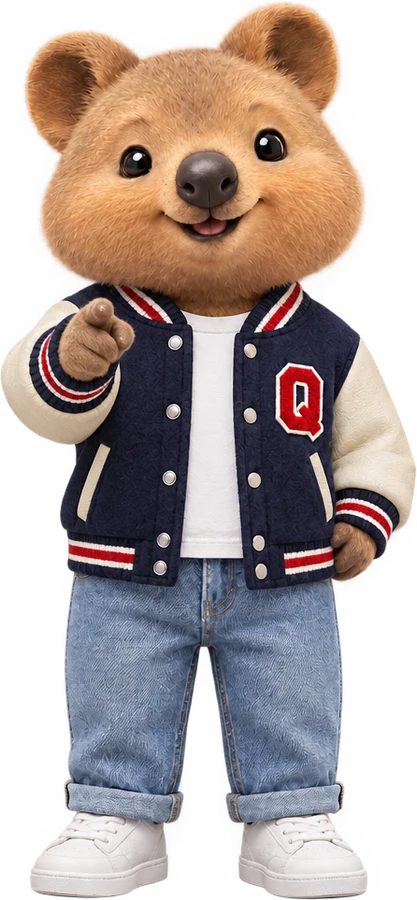
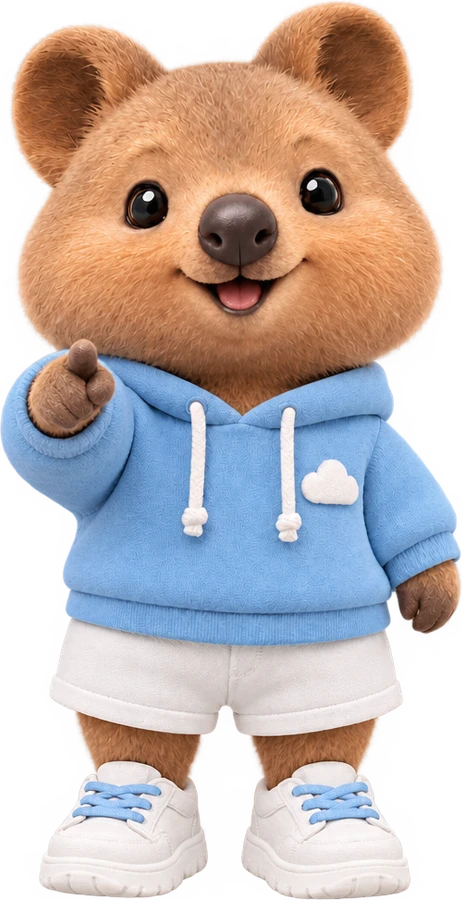
E78 캐릭터·색 교체: 치비 비율 하늘색 후디, 포인트 코발트, 알림 스택 훅
- 힉스필드로 몸을 짧게 줄인 치비 비율 키·포즈 4종 새로 생성(하늘색 후디, 흰 반바지)
- 팔레트 #2563EB/#0EA5E9, 모션 8종 포인트 색 코발트로 재추출, 큰 숫자 모션은 밝은 바탕
- 1장 훅은 폰 알림 대신 알림 스택(notify-stack)으로, 썸네일 재생성

diff --git a/assets/motions/e78-notify-stack.html b/assets/motions/e78-notify-stack.html
@@ -3,43 +3,49 @@
 <head>
 <meta charset="utf-8">
 <meta name="viewport" content="width=device-width, initial-scale=1">
-<title>폰 알림</title>
-<style>body{margin:0;min-height:100vh;display:grid;place-items:center;background:#111a30}</style>
+<title>알림 스택</title>
+<style>body{margin:0;min-height:100vh;display:grid;place-items:center;background:#f5f5f7}</style>
 </head>
 <body>
-<!-- 쿼카 모션랩 · 폰 알림 (Phone Notice) -->
-<div id="qm-phone-notice" style="width:100%;max-width:calc(100vh * 1)"></div>
+<!-- 쿼카 모션랩 · 알림 스택 (Notification Stack) -->
+<div id="qm-notify-stack" style="width:100%;max-width:calc(100vh * 1)"></div>
 <script>
 (function () {
   // ① 설정: 여기만 고치면 됩니다
   const CONFIG = {
     speed: 1,          // 속도 (1 = 기본, 2 = 두 배)
-    bg: '#111a30',     // 배경색 ('transparent'로 바꾸면 투명)
-    colors: ['#f4f6fa', '#d9e0ee', '#b4c0d9', '#8494b8', '#b0556a', '#1f3460', '#1f3460', '#0e1424'],   // 색 8개: 밝은 색 → 진한 색 ([5] 포인트 색, [7] 글자색)
+    bg: '#f5f5f7',     // 배경색 ('transparent'로 바꾸면 투명)
+    colors: ['#ffffff', '#e8ecf3', '#cfd7e6', '#9aa8c4', '#5c7099', '#2563EB', '#6e1a2f', '#15171c'],   // 색 8개: 밝은 색 → 진한 색 ([5] 포인트 색, [7] 글자색)
     ratio: '1 / 1'     // 화면 비율 (가로 / 세로)
   };
 
-  // ② 모션: 폰 알림
-  function phoneNotice(api) {
-    const TIME = '9:41', DATE = '10월 29일 목요일';
-    const NOTICE = ['지식샘터', '보안 점검으로 서비스를 전면 중단합니다 (10.29 ~ 1월)'];   // [보낸 곳, 내용]
-    const { u } = api, sp = api.space(0), w = u * 0.44, h = u * 0.84;
-    const phone = api.box(sp, w, h, `overflow:hidden;border-radius:${u * 0.07}px;border:${u * 0.012}px solid ${api.ink};background:linear-gradient(165deg,${api.tone(3)},${api.ink} 85%);color:#fff;text-align:center;box-shadow:0 0 0 ${Math.max(1, u * 0.003)}px rgba(255,255,255,.25),0 ${u * 0.03}px ${u * 0.08}px rgba(0,0,0,.4)`);
-    phone.innerHTML = `<b style="display:block;margin-top:${h * 0.13}px;font-size:${u * 0.11}px;line-height:1.1;font-weight:300;letter-spacing:-.02em"></b><span style="font-size:${u * 0.03}px;opacity:.8"></span>` +
-      `<div style="margin:${h * 0.07}px ${w * 0.06}px 0;padding:${u * 0.022}px ${u * 0.026}px;border-radius:${u * 0.03}px;background:#fff;color:${api.ink};text-align:left">` +
-      `<b style="display:block;font-size:${u * 0.03}px"></b><span style="display:block;font-size:${u * 0.028}px;line-height:1.4;opacity:.7;word-break:keep-all"></span></div>`;
-    phone.children[0].textContent = TIME;
-    phone.children[1].textContent = DATE;
-    const card = phone.lastChild;
-    card.firstChild.textContent = NOTICE[0];
-    card.lastChild.textContent = NOTICE[1];
-    const LOOP = 5;
+  // ② 모션: 알림 스택
+  function notifyStack(api) {
+    const ITEMS = [   // [제목, 내용]
+      ['지식샘터 공지', '10월 29일부터 1월까지 서비스 전면 중단'],
+      ['이유', 'PHP 보안 취약점, PHP2Shell'],
+      ['취약점을 찾은 쪽', 'AI였어요']
+    ];
+    const { u } = api, sp = api.space(0), w = u * 0.8, h = u * 0.175, pitch = h * 1.16;
+    const cards = ITEMS.map((item, i) => {
+      const el = api.box(sp, w, h, `display:flex;align-items:center;gap:${u * 0.035}px;padding:0 ${u * 0.04}px;border-radius:${u * 0.05}px;background:#fff;color:${api.ink};box-shadow:0 ${u * 0.012}px ${u * 0.045}px rgba(0,0,0,.2)`);
+      el.innerHTML = `<i style="flex:none;width:${u * 0.09}px;height:${u * 0.09}px;border-radius:30%;background:${api.tone(i + 2)}"></i>` +
+        `<span style="min-width:0;flex:1"><b style="display:block;font-size:${u * 0.043}px;line-height:1.35"></b>` +
+        `<span style="display:block;font-size:${u * 0.034}px;line-height:1.35;opacity:.55;white-space:nowrap;overflow:hidden;text-overflow:ellipsis"></span></span>`;
+      el.querySelector('b').textContent = item[0];
+      el.querySelector('span span').textContent = item[1];
+      return el;
+    });
+    const LOOP = 6;   // 한 바퀴 길이(초)
     return t => {
       t %= LOOP;
-      const p = api.spring((t - 0.8) / 0.6), out = api.ease((t - 4.2) / 0.4);
-      card.style.transform = `translateY(${-(1 - p) * u * 0.12 - out * u * 0.04}px) scale(${0.9 + 0.1 * p})`;
-      card.style.opacity = Math.max(0, Math.min(1, (t - 0.8) / 0.2)) * (1 - out);
-      phone.style.transform = `rotate(${Math.sin((t - 0.8) * 30) * Math.max(0, 1 - Math.abs(t - 1) * 3) * 1.2}deg)`;   // 알림이 올 때 살짝 떨림
+      cards.forEach((el, i) => {
+        const start = 0.3 + i * 0.35;
+        const p = api.spring((t - start) / 0.7), out = api.ease((t - 4.9 - i * 0.08) / 0.45);
+        const y = (i - (cards.length - 1) / 2) * pitch;
+        el.style.transform = `translate3d(0,${y - (1 - p) * u * 0.22 - out * u * 0.08}px,0) scale(${0.92 + 0.08 * p})`;
+        el.style.opacity = Math.max(0, Math.min(1, (t - start) / 0.2)) * (1 - out);
+      });
     };
   }
 
@@ -256,7 +262,7 @@
     };
   }
 
-  qmEngine(document.getElementById('qm-phone-notice'), CONFIG, phoneNotice);
+  qmEngine(document.getElementById('qm-notify-stack'), CONFIG, notifyStack);
 })();
 </script>
 </body>

diff --git a/episodes/s8/v8-php2shell.js b/episodes/s8/v8-php2shell.js
@@ -1,5 +1,5 @@
 /* S8-78 AI가 버그를 찾으면 무슨 일이 생길까: 세로 무대(720×1280), 8장면 120초
-   모션은 쿼카 모션랩에서 뽑은 파일(assets/motions/e78-*.html)을 iframe으로 얹어요. 자체 모션 코드 없음.
+   모션은 쿼카 모션랩에서 뽑은 파일(assets/motions/e78-*.html, 포인트 #2563EB)을 iframe으로 얹어요. 자체 모션 코드 없음.
    1차 출처: CISA 경보(10.21), Wiz 블로그(발견 경위·일정), Amazon 위협정보(공개 전 시도·AI와 공격 비용), 대한민국 정책브리핑(10.22 주의 격상·권고), CNBC(각국 사이트 중단·AI 속도 인용) */
 import { clamp, seg, EO, SM, EXPO, INTO, SP, typer, riser, odo, frame, quokka, track } from './kit.js';
 
@@ -62,7 +62,7 @@ export default {
       build({ stage: st0, lines, P, tl, base }) {
         const stage = frame(st0, P, CSS);
         const head = P.h('div', { class: 'ps-head' }); stage.append(head); const rh = riser(P, head, '지식샘터, 두 달 휴업?');
-        const box = motionBox(stage, P, base, 'phone-notice', true);
+        const box = motionBox(stage, P, base, 'notify-stack', true);
         const q = quokka(stage, P, 'oops'); const tr = track(stage, P, STEPS, [0]);
         return { tick(t) { q.tick(t, t < 12); tr.at(t, .3); rh.at(t, .2); box.at(t, .5); } };
       }

diff --git a/assets/motions/e78-big-stat.html b/assets/motions/e78-big-stat.html
@@ -4,7 +4,7 @@
 <meta charset="utf-8">
 <meta name="viewport" content="width=device-width, initial-scale=1">
 <title>큰 숫자</title>
-<style>body{margin:0;min-height:100vh;display:grid;place-items:center;background:#3b0f1c}</style>
+<style>body{margin:0;min-height:100vh;display:grid;place-items:center;background:#EEF4FF}</style>
 </head>
 <body>
 <!-- 쿼카 모션랩 · 큰 숫자 (Big Stat) -->
@@ -20,8 +20,8 @@
   // ① 설정: 여기만 고치면 됩니다
   const CONFIG = {
     speed: 1,          // 속도 (1 = 기본, 2 = 두 배)
-    bg: '#3b0f1c',     // 배경색 ('transparent'로 바꾸면 투명)
-    colors: ['#fbf4f1', '#f0dfdc', '#e0c4c4', '#c59ca0', '#a2717a', '#1f3460', '#1f3460', '#1c0a10'],   // 색 8개: 밝은 색 → 진한 색 ([5] 포인트 색, [7] 글자색)
+    bg: '#EEF4FF',     // 배경색 ('transparent'로 바꾸면 투명)
+    colors: ['#fbf4f1', '#f0dfdc', '#e0c4c4', '#c59ca0', '#a2717a', '#2563EB', '#1f3460', '#1c0a10'],   // 색 8개: 밝은 색 → 진한 색 ([5] 포인트 색, [7] 글자색)
     ratio: '1 / 1'     // 화면 비율 (가로 / 세로)
   };
 

diff --git a/engine/palette.js b/engine/palette.js
@@ -104,7 +104,7 @@ export const PALETTES = {
   't7-super-intelligence-word':{ a1: '#15803D', a2: '#B45309', name: '크림 트렌치·초록 베레' },
   'v8-motion-code':            { a1: '#111827', a2: '#CA8A04', name: '블랙 터틀넥·금테 안경' },
   'v8-inclusive-ai':           { a1: '#1E3A8A', a2: '#B91C1C', name: '바시티 재킷' },
-  'v8-php2shell':              { a1: '#1F3460', a2: '#6E1A2F', name: '바시티 재킷' }
+  'v8-php2shell':              { a1: '#2563EB', a2: '#0EA5E9', name: '하늘색 후디' }
 };
 export const DEFAULT_PALETTE = { a1: '#2563EB', a2: '#EA580C', name: '기본' };
 

diff --git a/assets/motions/e78-flow-chart.html b/assets/motions/e78-flow-chart.html
@@ -21,7 +21,7 @@
   const CONFIG = {
     speed: 1,          // 속도 (1 = 기본, 2 = 두 배)
     bg: '#f5f5f7',     // 배경색 ('transparent'로 바꾸면 투명)
-    colors: ['#ffffff', '#e8ecf3', '#cfd7e6', '#9aa8c4', '#5c7099', '#1f3460', '#6e1a2f', '#15171c'],   // 색 8개: 밝은 색 → 진한 색 ([5] 포인트 색, [7] 글자색)
+    colors: ['#ffffff', '#e8ecf3', '#cfd7e6', '#9aa8c4', '#5c7099', '#2563EB', '#6e1a2f', '#15171c'],   // 색 8개: 밝은 색 → 진한 색 ([5] 포인트 색, [7] 글자색)
     ratio: '1 / 1'     // 화면 비율 (가로 / 세로)
   };
 

diff --git a/assets/motions/e78-form-fill.html b/assets/motions/e78-form-fill.html
@@ -21,7 +21,7 @@
   const CONFIG = {
     speed: 1,          // 속도 (1 = 기본, 2 = 두 배)
     bg: '#f5f5f7',     // 배경색 ('transparent'로 바꾸면 투명)
-    colors: ['#ffffff', '#e8ecf3', '#cfd7e6', '#9aa8c4', '#5c7099', '#1f3460', '#6e1a2f', '#15171c'],   // 색 8개: 밝은 색 → 진한 색 ([5] 포인트 색, [7] 글자색)
+    colors: ['#ffffff', '#e8ecf3', '#cfd7e6', '#9aa8c4', '#5c7099', '#2563EB', '#6e1a2f', '#15171c'],   // 색 8개: 밝은 색 → 진한 색 ([5] 포인트 색, [7] 글자색)
     ratio: '1 / 1'     // 화면 비율 (가로 / 세로)
   };
 

diff --git a/assets/motions/e78-pull-quote.html b/assets/motions/e78-pull-quote.html
@@ -18,7 +18,7 @@
   const CONFIG = {
     speed: 1,          // 속도 (1 = 기본, 2 = 두 배)
     bg: '#f6f3f0',     // 배경색 ('transparent'로 바꾸면 투명)
-    colors: ['#ffffff', '#f3e7e8', '#e5cdd1', '#c598a1', '#9c5263', '#1f3460', '#1f3460', '#1a1214'],   // 색 8개: 밝은 색 → 진한 색 ([5] 포인트 색, [7] 글자색)
+    colors: ['#ffffff', '#f3e7e8', '#e5cdd1', '#c598a1', '#9c5263', '#2563EB', '#1f3460', '#1a1214'],   // 색 8개: 밝은 색 → 진한 색 ([5] 포인트 색, [7] 글자색)
     ratio: '1 / 1'     // 화면 비율 (가로 / 세로)
   };
 

diff --git a/assets/motions/e78-tag-checklist.html b/assets/motions/e78-tag-checklist.html
@@ -21,7 +21,7 @@
   const CONFIG = {
     speed: 1,          // 속도 (1 = 기본, 2 = 두 배)
     bg: '#ddd6c8',     // 배경색 ('transparent'로 바꾸면 투명)
-    colors: ['#fbf9f4', '#f6f3ec', '#efeade', '#e4ddd0', '#a59c8d', '#1f3460', '#1f3460', '#22201d'],   // 색 8개: 밝은 색 → 진한 색 ([5] 포인트 색, [7] 글자색)
+    colors: ['#fbf9f4', '#f6f3ec', '#efeade', '#e4ddd0', '#a59c8d', '#2563EB', '#1f3460', '#22201d'],   // 색 8개: 밝은 색 → 진한 색 ([5] 포인트 색, [7] 글자색)
     ratio: '1 / 1'     // 화면 비율 (가로 / 세로)
   };
 

diff --git a/assets/motions/e78-timeline.html b/assets/motions/e78-timeline.html
@@ -15,7 +15,7 @@
   const CONFIG = {
     speed: 1,          // 속도 (1 = 기본, 2 = 두 배)
     bg: '#f5f5f7',     // 배경색 ('transparent'로 바꾸면 투명)
-    colors: ['#ffffff', '#e8ecf3', '#cfd7e6', '#9aa8c4', '#5c7099', '#1f3460', '#6e1a2f', '#15171c'],   // 색 8개: 밝은 색 → 진한 색 ([5] 포인트 색, [7] 글자색)
+    colors: ['#ffffff', '#e8ecf3', '#cfd7e6', '#9aa8c4', '#5c7099', '#2563EB', '#6e1a2f', '#15171c'],   // 색 8개: 밝은 색 → 진한 색 ([5] 포인트 색, [7] 글자색)
     ratio: '1 / 1'     // 화면 비율 (가로 / 세로)
   };
 
